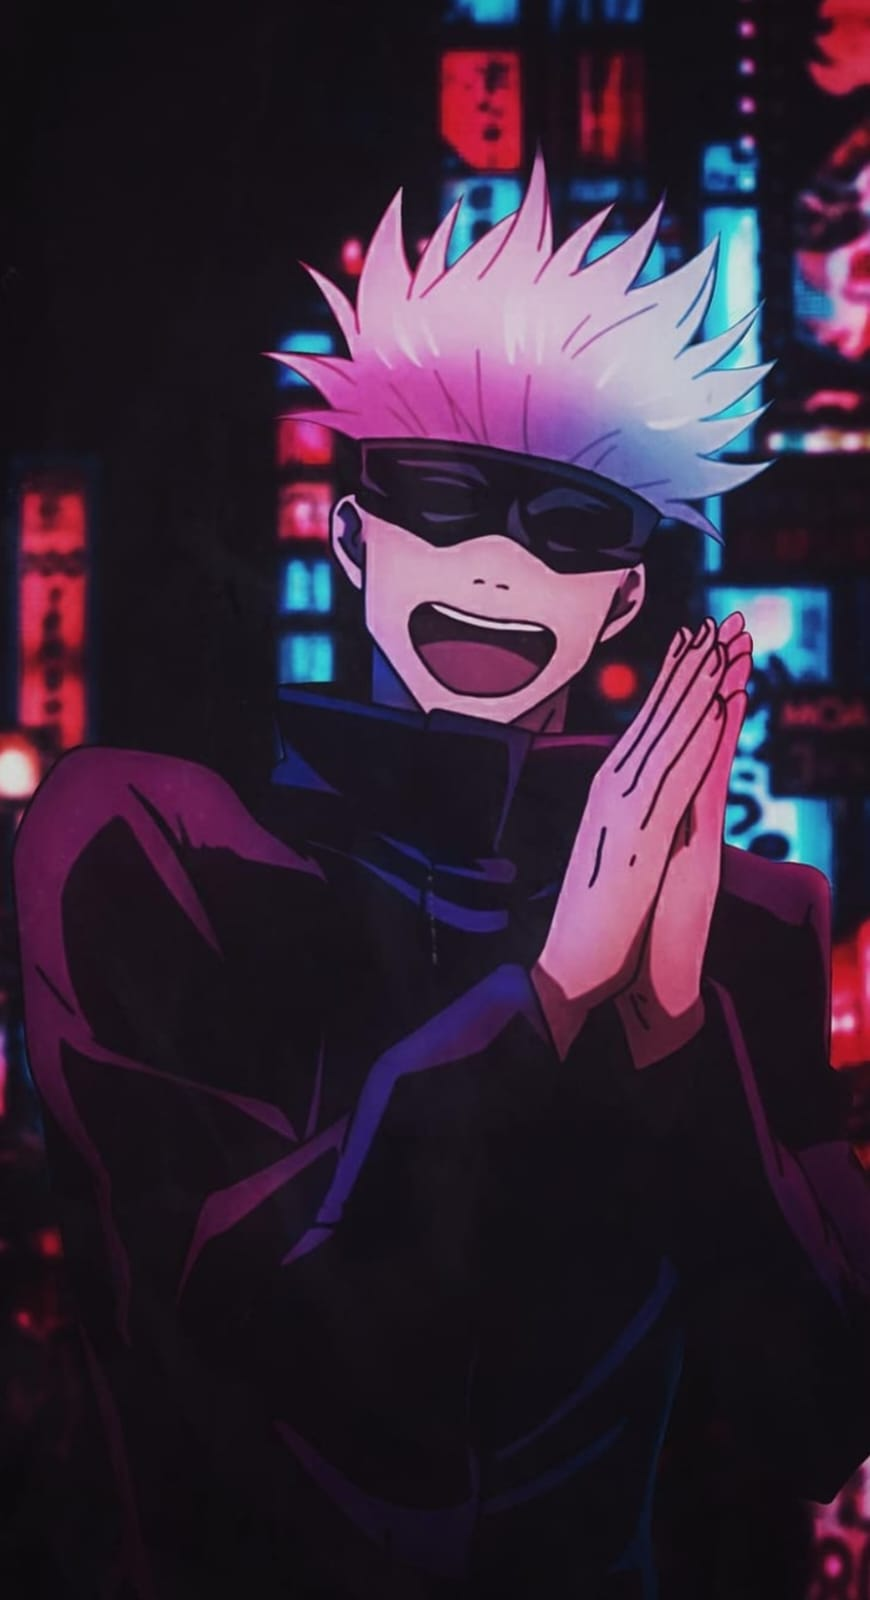
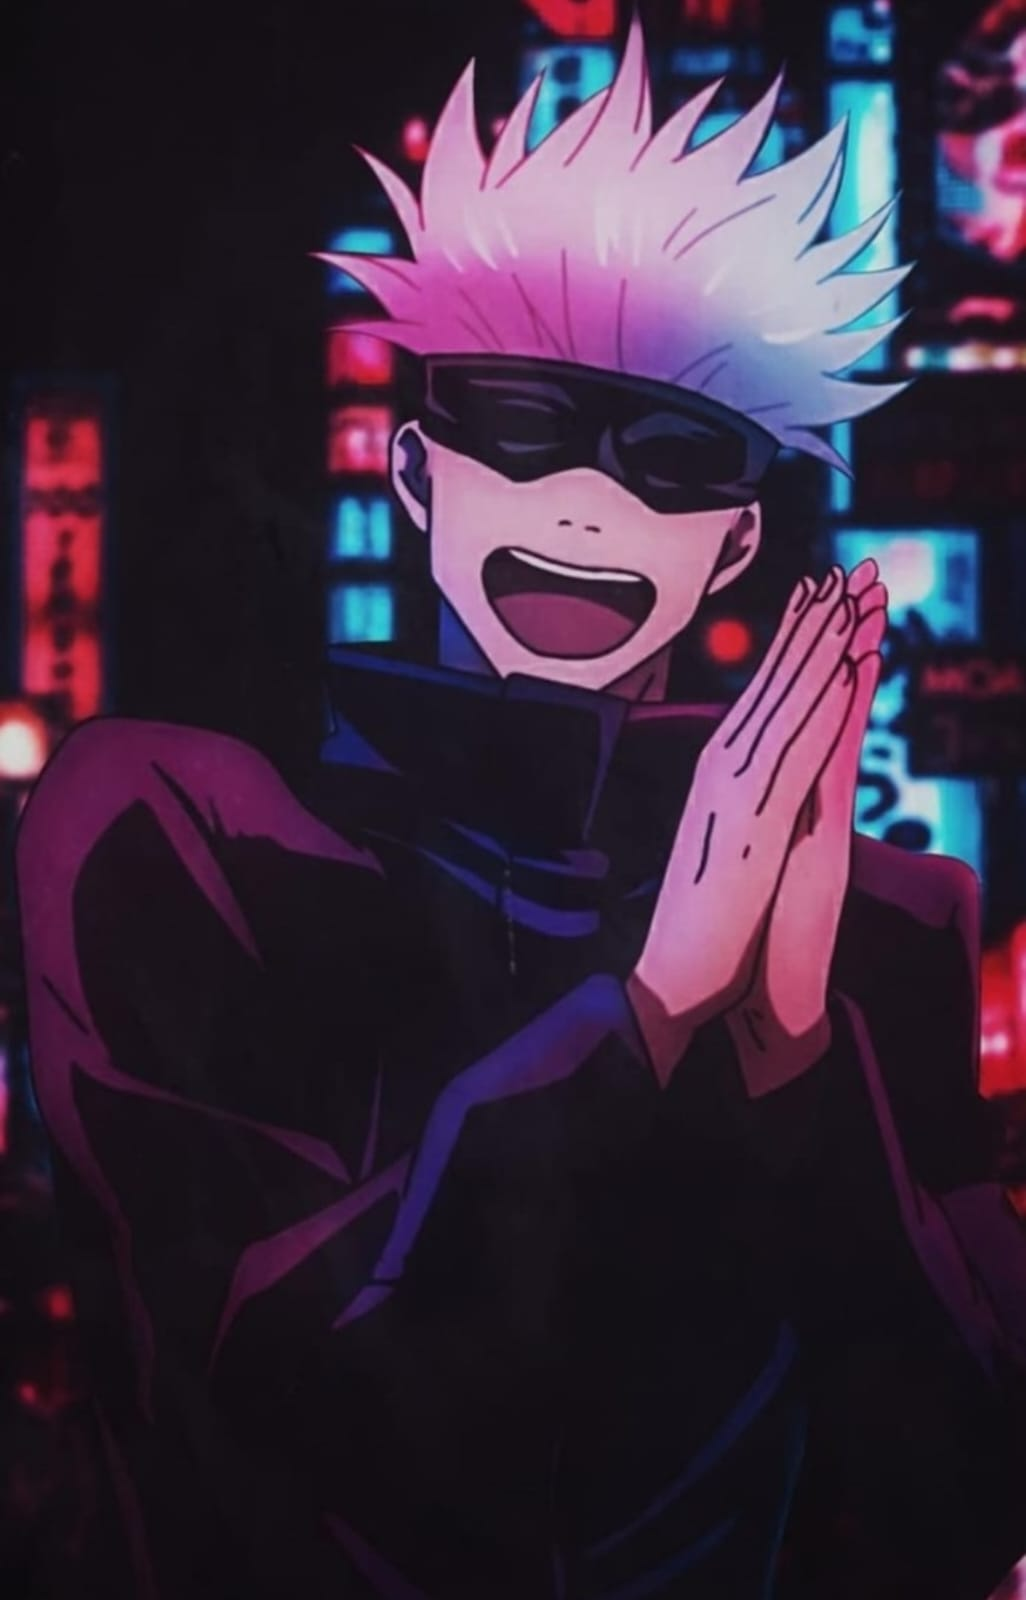
Init my project

diff --git a/Index.html b/Index.html
@@ -29,8 +29,39 @@
             </div>
             </div>
         <div class="right">
-
+            <div class="carousel">
+                <div class="carousel-slide">
+                    <img src="assets3/Picture 1.jpg" alt="Image 1">
+                </div>
+                <div class="carousel-slide">
+                    <img src="assets3/Picture 2.jpg" alt="Image 2">
+                </div>
+                <div class="carousel-slide">
+                    <img src="assets3/Picture 3.jpg" alt="Image 3">
+                </div>
+            </div>
         </div>
     </section>
+    <script>
+        document.addEventListener("DOMContentLoaded", function () {
+            const slides = document.querySelectorAll(".carousel-slide");
+            let currentSlideIndex = 0;
+
+            function showSlide(index) {
+                slides[currentSlideIndex].style.display = "none";
+                currentSlideIndex = (index + slides.length) % slides.length;
+                slides[currentSlideIndex].style.display = "block";           
+            }
+
+            function nextSlide() {
+                showSlide(currentSlideIndex + 1);
+            }
+
+            showSlide(currentSlideIndex);
+
+            setInterval(nextSlide, 1000);
+        });
+        
+    </script>
 </body>
 </html>

diff --git a/style.css b/style.css
@@ -84,10 +84,40 @@ margin-left: 35px;
 section.container div.left {
     background: whitesmoke;
 }
+section.container div.right .carousel {
+    width: 88%;
+    height: 71.5vh;
+    overflow: hidden;
+    position: relative;
+    background: gray;
+}
 
-section.container div.right {
-    background: url(assets3/Picture\ 1.jpg) no-repeat center center/cover;
-    
+section.container div.right .carousel-slide {
+    width: 100%;
+    height: 100vh;
+    display: none;
+    position: absolute;
+    animation: slide 5s ease infinite;
+}
+
+section.container div.right .carousel .carousel-slide:nth-child(1){
+    background: url(assets3/Picture\ 1.jpg) no-repeat center center / cover;;
+    background-size: 100vh;
+}
+
+section.container div.right .carousel .carousel-slide:nth-child(2){
+    background: url(assets3/Picture\ 2.jpg) no-repeat center center / cover;;
+    background-size: 100vh;
+}
+
+section.container div.right .carousel .carousel-slide:nth-child(3){
+    background: url(assets3/Picture\ 3.jpg) no-repeat center center / cover;;
+    background-size: 100vh;
+}  
+
+@keyframes slide {
+    0%, 100% {opacity: 0;}
+    10%, 90% {opacity: 1;}
 }
 
 div.clear {
